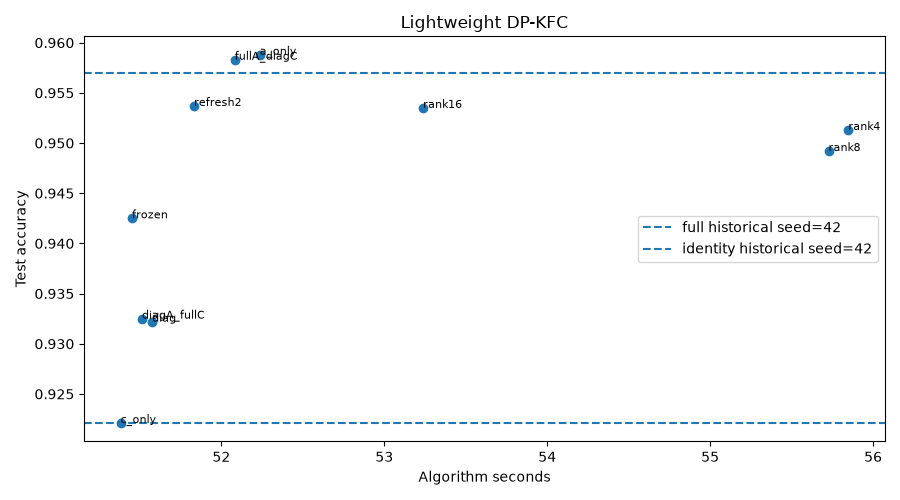
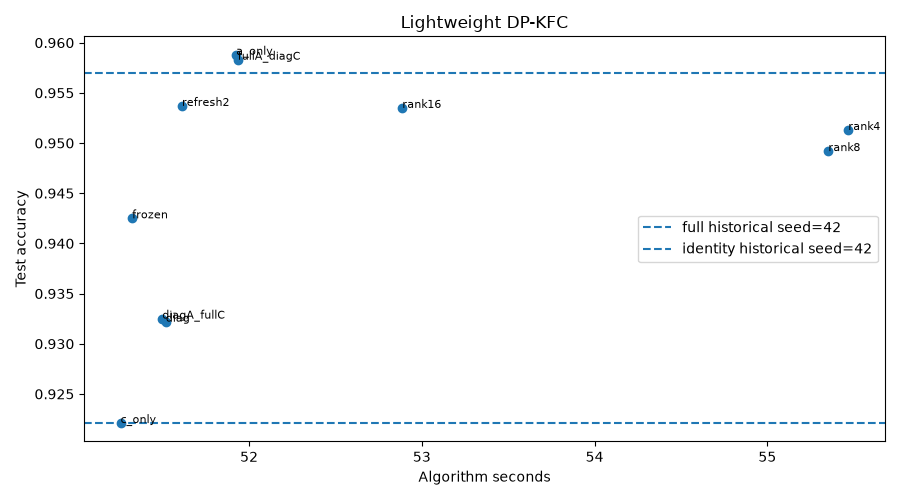
exp18-results

diff --git a/exp18/results/pareto_summary.md b/exp18/results/pareto_summary.md
@@ -12,16 +12,16 @@ Pareto flags compare newly trained methods. Historical runtime has separate-run 
 Historical operator bytes are not measured in those CSVs; baseline horizontal lines compare utility only.
 
      method  test_accuracy  utility_retention  operator_state_bytes  total_algorithm_seconds  memory_frontier  runtime_frontier
-       diag         0.9322           0.289398                  8164                51.575594             True             False
-     a_only         0.9588           1.051576               9998116                52.235909             True              True
-     c_only         0.9221           0.000000                 71064                51.381248            False              True
-fullA_diagC         0.9583           1.037249               9998860                52.082726            False              True
-diagA_fullC         0.9325           0.297994                 78476                51.513025            False             False
-      rank4         0.9513           0.836676                 32824                55.847871             True             False
-      rank8         0.9492           0.776504                 65576                55.726604            False             False
-     rank16         0.9535           0.899713                130384                53.238125             True             False
-   refresh2         0.9537           0.905444              10069172                51.832539            False              True
-     frozen         0.9425           0.584527              10069172                51.452281            False              True
+       diag         0.9322           0.289398                  8164                51.518302             True             False
+     a_only         0.9588           1.051576               9998116                51.925706             True              True
+     c_only         0.9221           0.000000                 71064                51.256185            False              True
+fullA_diagC         0.9583           1.037249               9998860                51.934849            False             False
+diagA_fullC         0.9325           0.297994                 78476                51.497906            False             False
+      rank4         0.9513           0.836676                 32824                55.468753             True             False
+      rank8         0.9492           0.776504                 65576                55.353399            False             False
+     rank16         0.9535           0.899713                130384                52.887163             True             False
+   refresh2         0.9537           0.905444              10069172                51.611979            False              True
+     frozen         0.9425           0.584527              10069172                51.323522            False              True
 
 Diagonal retains 28.9% of the historical gain.
 A-only − C-only accuracy: +0.0367; fullA/diagC − diagA/fullC: +0.0258.
